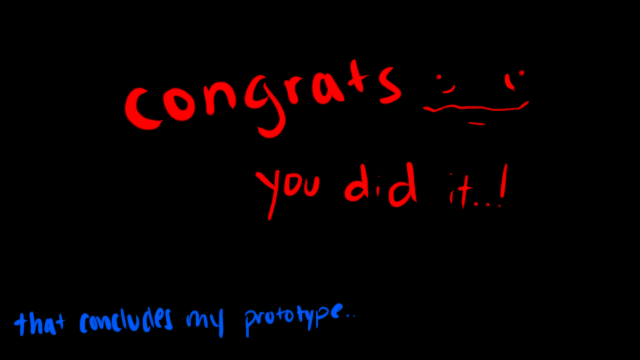
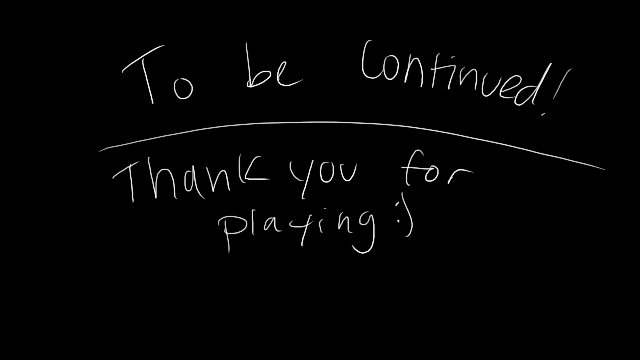
froge quest completed!

diff --git a/src/scenes/Play.js b/src/scenes/Play.js
@@ -6,7 +6,10 @@ class Play extends Phaser.Scene {
     init(){
         this.isDragging = false;
         this.isGreenSackOnTray = false;
+        this.isRGemOnTray = false;
+    this.isThreeGoldOnTray = false;
         this.isTyping = false;
+        this.isSecondDialogue = false;
     }
 
     create(){
@@ -120,9 +123,8 @@ class Play extends Phaser.Scene {
             this.isDragging = false;
             gameObject.setAlpha(1);
             gameObject.setDepth(gameObject.originalDepth);
-        
+            
             const isQuest = this.quests.includes(gameObject);
-        
             const isOnTray = this.physics.overlap(gameObject, this.tray);
             
             if (!isOnTray && !isQuest) {
@@ -131,20 +133,21 @@ class Play extends Phaser.Scene {
                 if (gameObject === this.gSack) {
                     this.isGreenSackOnTray = true;
                 }
+                if (gameObject === this.rGem) {
+                    this.isRGemOnTray = true; 
+                }
+                if (gameObject === this.threeGold) {
+                    this.isThreeGoldOnTray = true; 
+                }
             }
         });
-
+    
 
 
 
 
         // detect overlap between tray & rewards
-        this.physics.add.overlap(this.gSack, this.tray, this.handleGreenSackOnTray, null, this);
-
-
-
-
-
+        this.physics.add.overlap(this.items, this.tray, this.handleGreenSackOnTray, null, this);
 
         // enter adventurers!(+ tutorial clerk)
         this.clerk = this.add.sprite(-120,180, 'clerk').setDepth(0);
@@ -176,6 +179,12 @@ class Play extends Phaser.Scene {
         if (sack === this.gSack) {
             this.isGreenSackOnTray = true;
         } 
+        if (sack === this.rGem) {
+            this.isRGemOnTray = true;
+        }
+        if (sack === this.threeGold) {
+            this.isThreeGoldOnTray = true;
+        }
     }
 
     bellRung() {
@@ -183,6 +192,10 @@ class Play extends Phaser.Scene {
             this.gSack.setVisible(false); 
             this.isGreenSackOnTray = false; 
             this.startSecondDialogueSequence(); 
+        }
+     
+        if (this.isRGemOnTray && this.isThreeGoldOnTray && this.froge) {
+            this.fadeToWinScene();
         }
     }
 
@@ -245,6 +258,7 @@ class Play extends Phaser.Scene {
     }
 
     startSecondDialogueSequence() {
+        this.isSecondDialogue = true;
         this.dialogueQueue = [
             "Nice!",
             "You've pretty much got the basics down.",
@@ -288,10 +302,13 @@ class Play extends Phaser.Scene {
                     this.time.removeAllEvents(); 
                     this.isTyping = false;
     
+                    // Only check for leaving after the last dialogue
                     if (this.dialogueQueue.length === 0) {
-                        this.time.delayedCall(500, () => {
-                            this.clearDialogueAndExit();
-                        });
+                        if (this.isSecondDialogue) {
+                            this.time.delayedCall(500, () => {
+                                this.clearDialogueAndExit();
+                            });
+                        } 
                     }
                 }
             },
@@ -306,7 +323,12 @@ class Play extends Phaser.Scene {
             targets: this.clerk,
             x: -120, 
             duration: 1000, 
-            ease: 'Power2'
+            ease: 'Power2',
+            onComplete: () => {
+                this.time.delayedCall(5000, () => {
+                    this.frogeEnters();
+                });
+            }
         });
     }
 
@@ -317,6 +339,105 @@ class Play extends Phaser.Scene {
     
         this.time.delayedCall(500, () => {
             this.clerkLeaves();
+        });
+    }
+
+    frogeEnters() {
+        // Create a tween to slide in Froge
+        this.tweens.add({
+            targets: this.froge,
+            x: 110, // Adjust this value to your desired final position
+            duration: 8000,
+            ease: 'Power2',
+            onComplete: () => {
+                // Once Froge is in place, show the dialogue
+                this.showFrogeDialogue();
+            }
+        });
+    }
+    
+    showFrogeDialogue() {
+        // Create Froge's dialogue box
+        this.frogeDialogueBox = this.add.graphics();
+        this.frogeDialogueBox.fillStyle(0x004d00, 0.8); // Dark green color
+        this.frogeDialogueBox.fillRect(200, 100, 160, 150);
+        this.frogeDialogueBox.setInteractive(new Phaser.Geom.Rectangle(200, 100, 160, 150), Phaser.Geom.Rectangle.Contains);
+        
+        this.frogeDialogueText = this.add.text(210, 110, '', {
+            font: '16px Arial',
+            fill: '#ffffff',
+            wordWrap: { width: 150, useAdvancedWrap: true }
+        }).setDepth(1); 
+    
+        this.frogeDialogueBox.on('pointerdown', () => {
+            this.advanceFrogeDialogue();
+        });
+    
+        this.frogeDialogueQueue = [
+            "...",
+            "please. i am in pain.",
+            "you know what i'm here for.",
+            "please just make this quick.",
+            "it hurts."
+        ];
+    
+        this.showNextFrogeDialogue();
+    }
+
+    showNextFrogeDialogue() {
+        if (this.frogeDialogueQueue.length > 0) {
+            const nextDialogue = this.frogeDialogueQueue.shift();
+            this.updateFrogeDialogue(nextDialogue);
+        } 
+    }
+    
+    updateFrogeDialogue(text) {
+        this.frogeDialogueText.setText(''); 
+        let index = 0;
+    
+        this.isTyping = true;
+    
+        this.time.removeAllEvents();
+    
+        this.time.addEvent({
+            delay: 25, 
+            callback: () => {
+                if (index < text.length) {
+                    this.frogeDialogueText.text += text[index]; 
+                    index++;
+                } else {
+                    this.time.removeAllEvents(); 
+                    this.isTyping = false;
+                }
+            },
+            loop: true
+        });
+    }
+    
+    advanceFrogeDialogue() {
+        if (!this.isTyping && this.frogeDialogueQueue.length > 0) {
+            this.showNextFrogeDialogue();
+        }
+    }
+
+    clearFrogeDialogue() {
+        this.frogeDialogueText.setText('');
+        this.frogeDialogueBox.destroy();
+    }
+
+    showNextFrogeDialogue() {
+        if (this.frogeDialogueQueue.length > 0) {
+            const nextDialogue = this.frogeDialogueQueue.shift();
+            this.updateFrogeDialogue(nextDialogue);
+        } 
+    }
+    
+    fadeToWinScene() {
+        console.log("Fading to win scene..."); // Debug statement
+        this.cameras.main.fadeOut(1000, 0, 0, 0); 
+        this.cameras.main.on('camerafadeoutcomplete', () => {
+            console.log("Fade complete, transitioning to win scene."); // Debug statement
+            this.scene.start('winScene'); 
         });
     }
 }

diff --git a/src/scenes/Menu.js b/src/scenes/Menu.js
@@ -104,6 +104,6 @@ class Menu extends Phaser.Scene {
 
     update(){
         // shortcut to start play scene
-        this.scene.start('playScene');
+        //this.scene.start('playScene');
     }
 }
